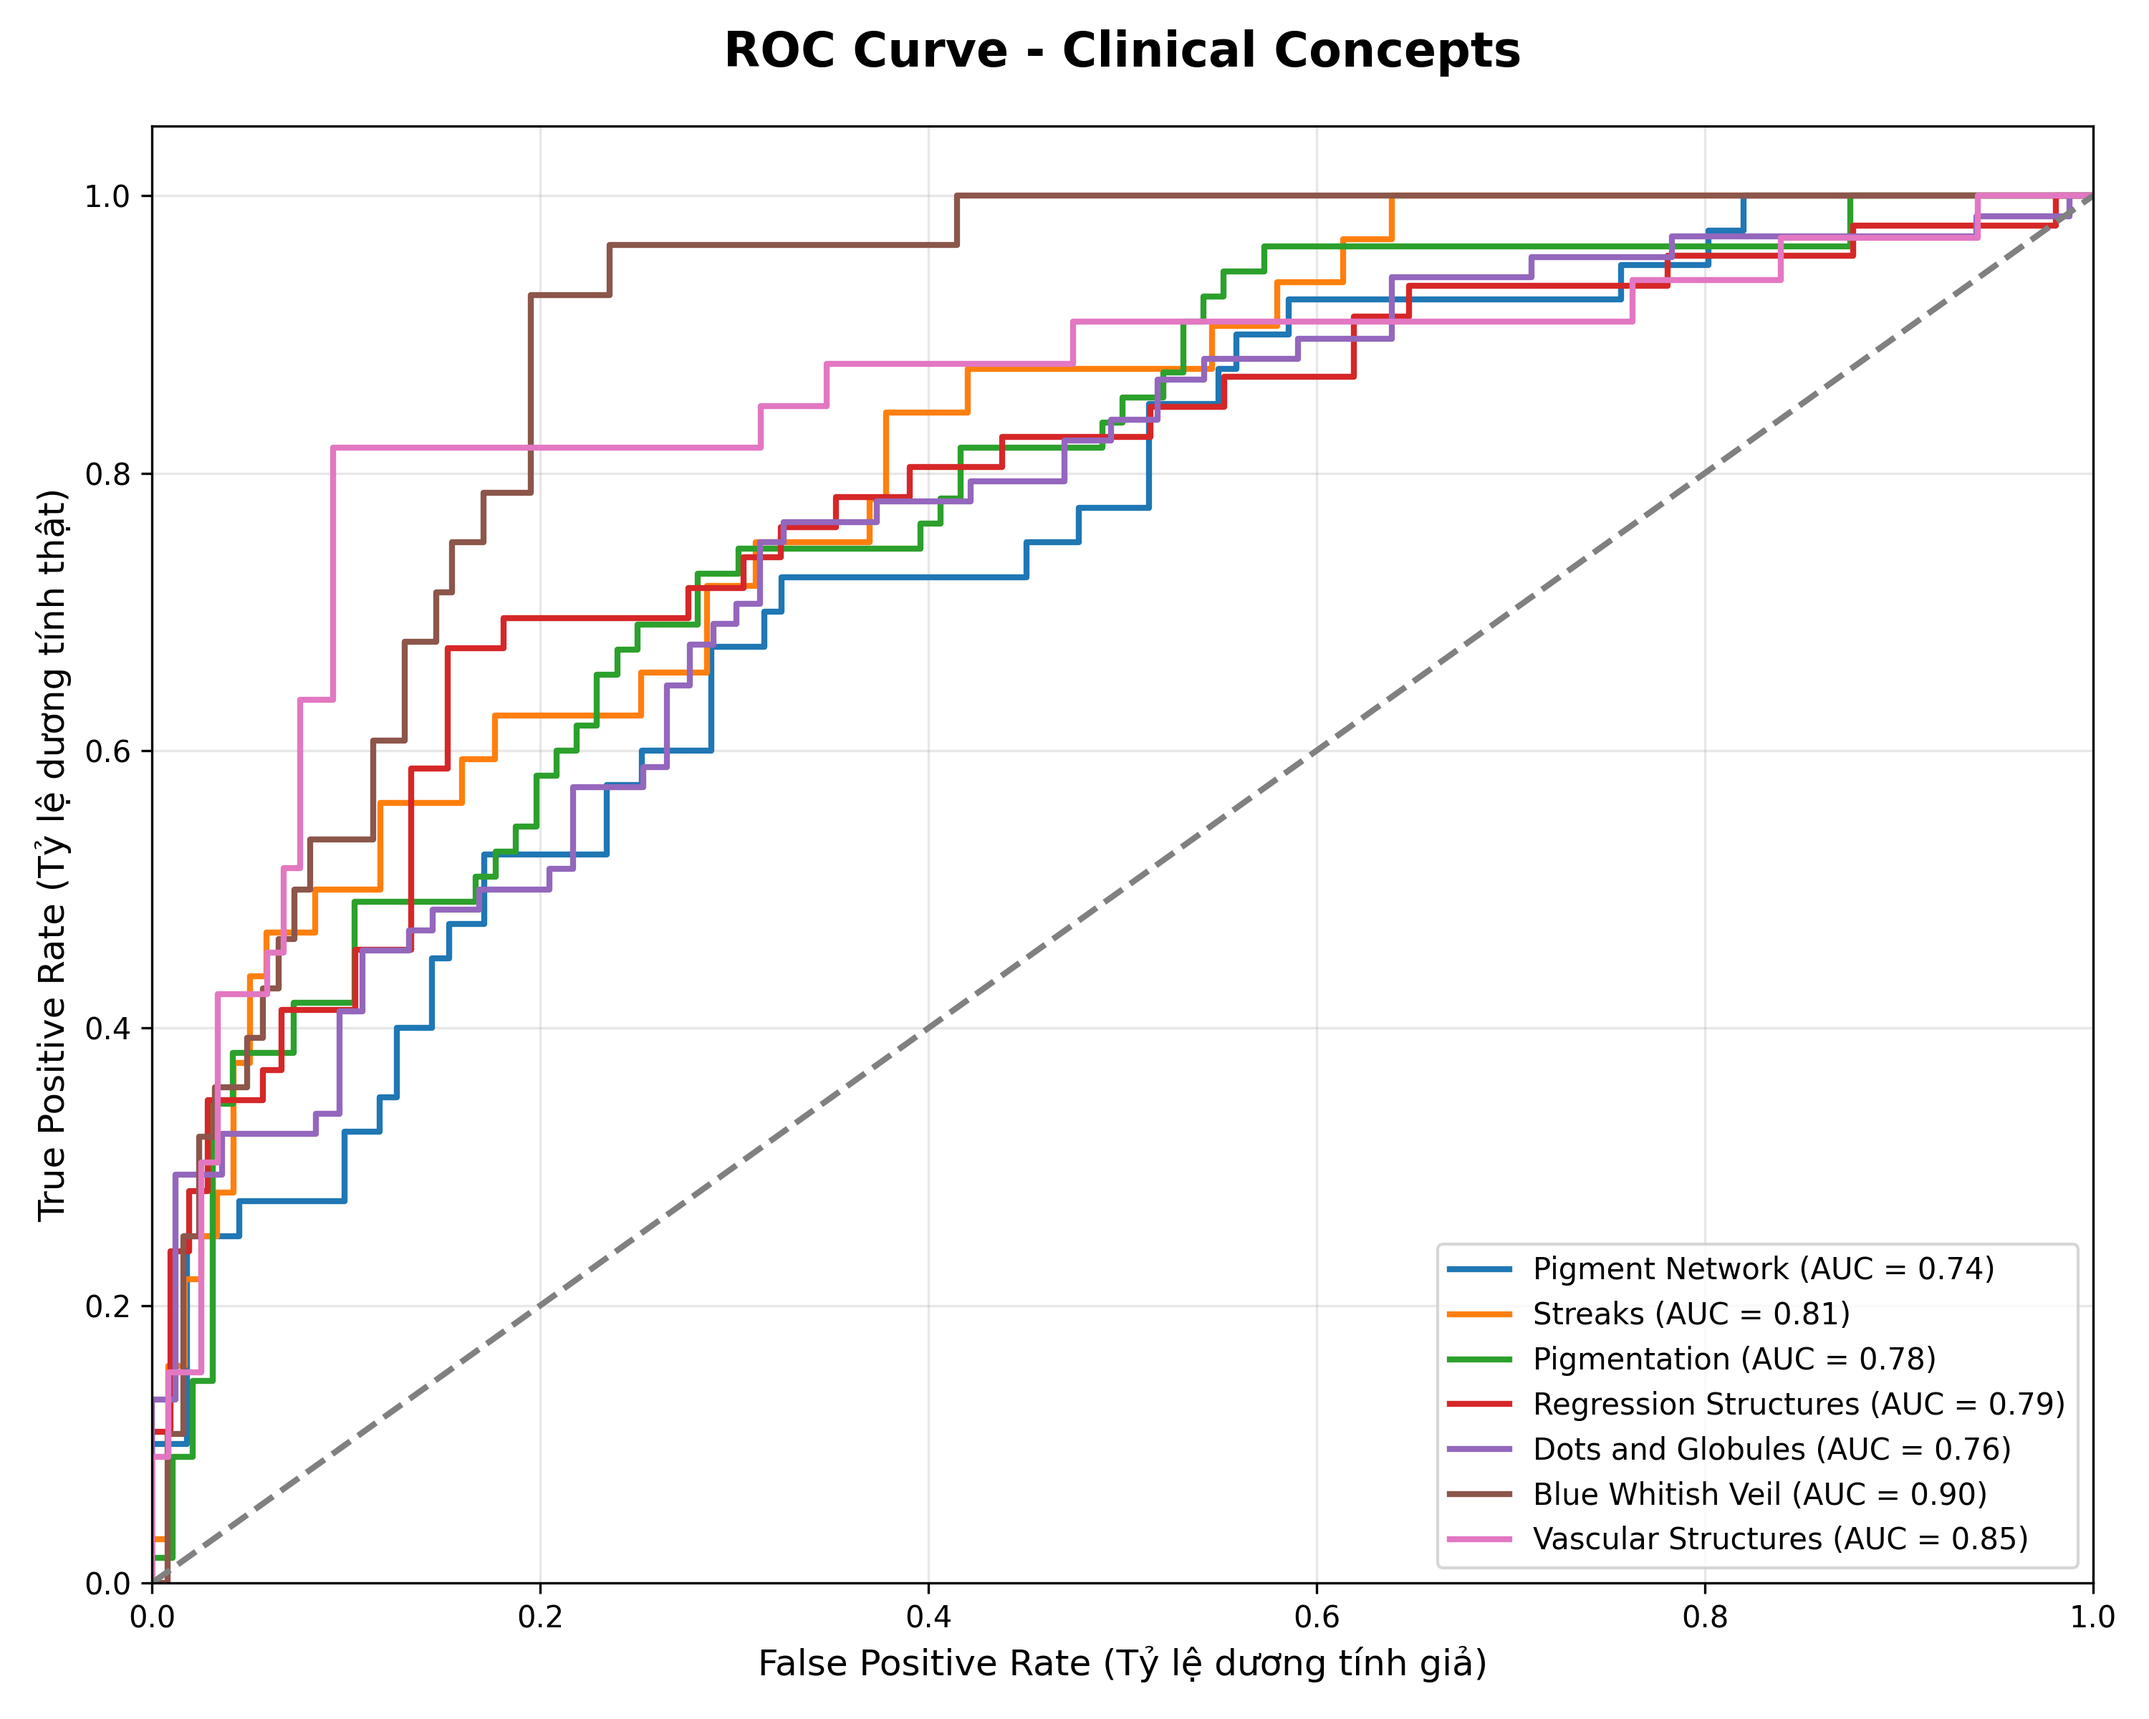
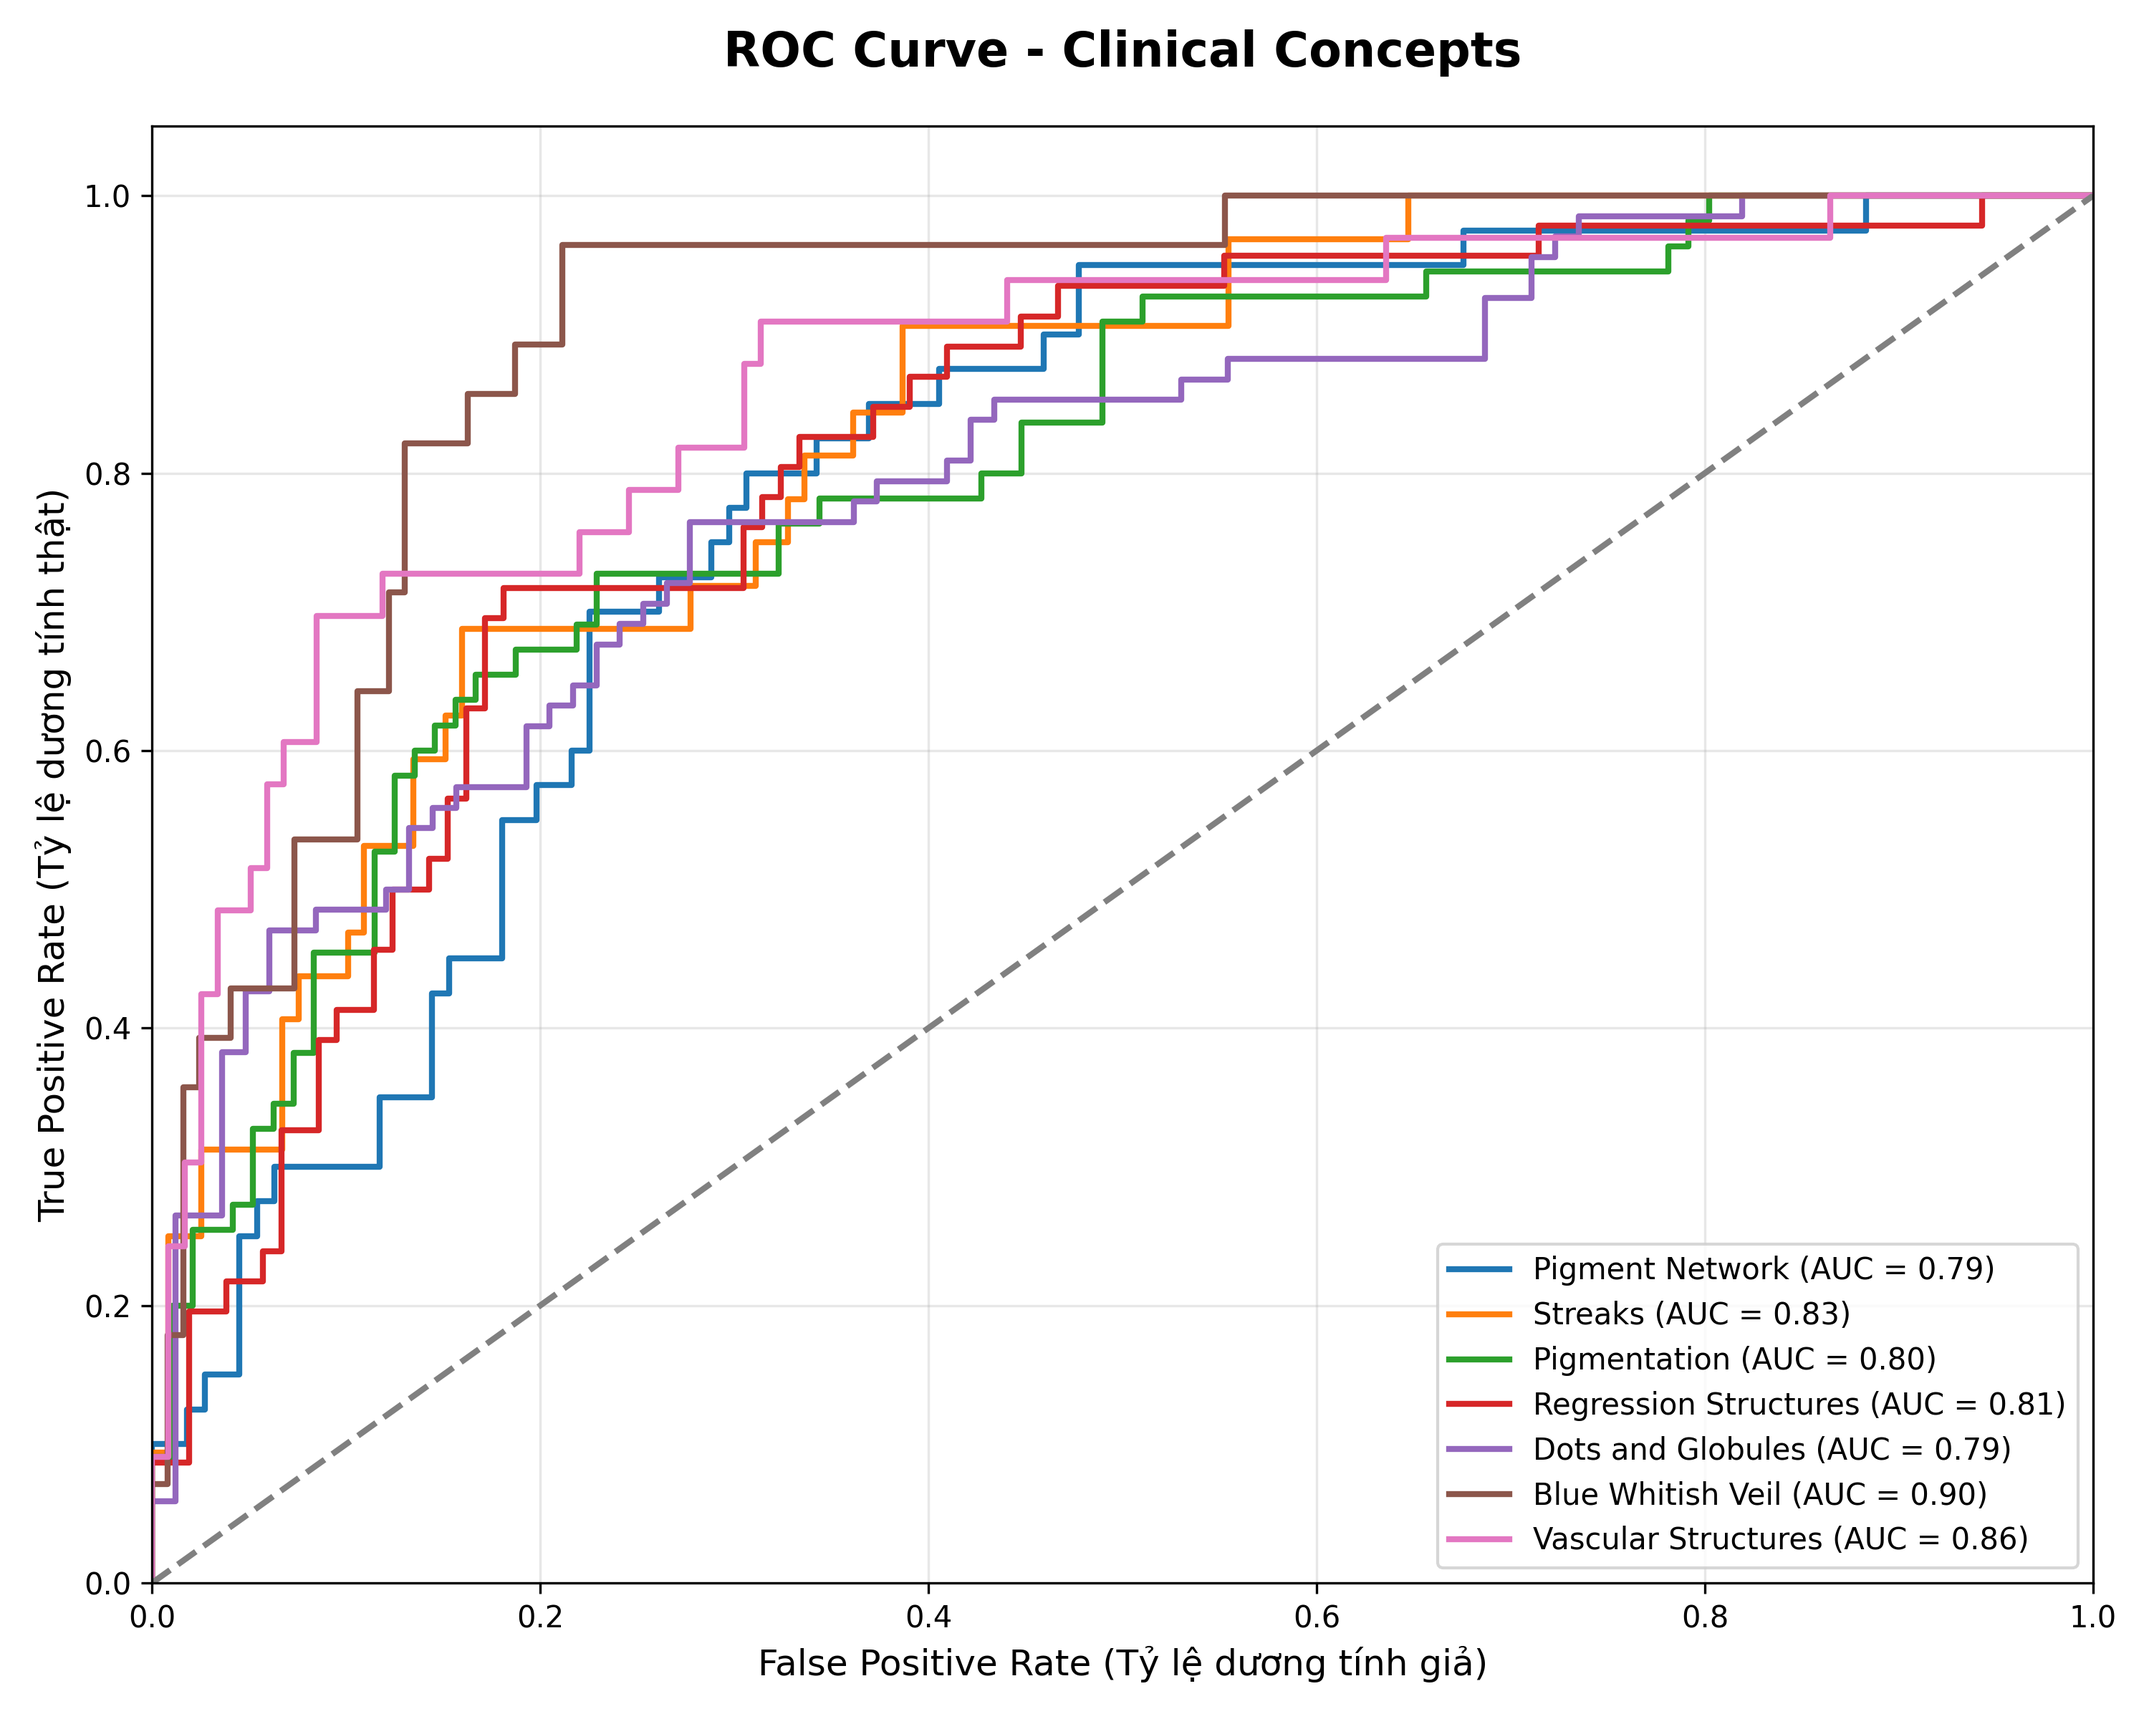
baseline meta_only

Changed region(s): [[0.062, 0.0938, 0.961, 0.9062], [0.93, 0.8125, 0.961, 0.8438], [0.868, 0.7812, 0.899, 0.8125]]

diff --git a/src/models/models.py b/src/models/models.py
@@ -10,26 +10,33 @@ class MultimodalDermModel(nn.Module):
         self.bottleneck_type = bottleneck_type
         self.use_metadata = use_metadata
         
-        # 1. KHỞI TẠO BACKBONE
+        # 1. KHỞI TẠO BACKBONE XỬ LÝ ẢNH (Bỏ qua hoàn toàn nếu là meta_only)
         if self.modality in ['clinic_only', 'dual']:
-            resnet_clinic = models.resnet50(pretrained=True)
+            resnet_clinic = models.resnet50(weights=models.ResNet50_Weights.IMAGENET1K_V1)
             self.clinic_backbone = nn.Sequential(*list(resnet_clinic.children())[:-1]) 
             
         if self.modality in ['derm_only', 'dual']:
-            resnet_derm = models.resnet50(pretrained=True)
+            resnet_derm = models.resnet50(weights=models.ResNet50_Weights.IMAGENET1K_V1)
             self.derm_backbone = nn.Sequential(*list(resnet_derm.children())[:-1])
 
         # 2. TÍNH TOÁN KÍCH THƯỚC FEATURE
-        self.feature_dim = 2048 if self.modality in ['clinic_only', 'derm_only'] else 4096
+        if self.modality == 'dual':
+            self.feature_dim = 4096
+        elif self.modality in ['clinic_only', 'derm_only']:
+            self.feature_dim = 2048
+        elif self.modality == 'meta_only':
+            self.feature_dim = 0
+            self.use_metadata = True # Bắt buộc phải bật Metadata nếu không dùng ảnh
+        else:
+            raise ValueError("Modality không hợp lệ. Chọn: dual, clinic_only, derm_only, meta_only")
         
         # ========================================================
-        # [GIẢI QUYẾT TỪ MÔ HÌNH]: META-ENCODER ĐÃ KÍCH HOẠT
+        # KHỞI TẠO META-ENCODER XỬ LÝ NHÂN KHẨU HỌC
         # ========================================================
         if self.use_metadata:
             self.meta_dim = 32 
-            self.feature_dim += self.meta_dim # Nới rộng chiều kích thước để nhét thêm Meta
+            self.feature_dim += self.meta_dim 
             
-            # Khởi tạo Mạng Nơ-ron nhỏ để học từ Vector Metadata 32 chiều
             self.meta_encoder = nn.Sequential(
                 nn.Linear(32, 64),
                 nn.BatchNorm1d(64),
@@ -38,19 +45,22 @@ class MultimodalDermModel(nn.Module):
                 nn.Linear(64, self.meta_dim)
             )
 
-        # 3. KHỞI TẠO BỘ DỰ ĐOÁN KHÁI NIỆM 
-        if self.bottleneck_type in ['pure', 'hybrid', 'multitask']: 
+        # 3. KHỞI TẠO BỘ DỰ ĐOÁN KHÁI NIỆM (Bỏ qua nếu là meta_only)
+        if self.bottleneck_type in ['pure', 'hybrid', 'multitask'] and self.modality != 'meta_only': 
             self.concept_classifier = nn.Linear(self.feature_dim, num_concepts)
 
         # 4. KHỞI TẠO BỘ DỰ ĐOÁN BỆNH 
-        if self.bottleneck_type in ['none', 'multitask']: 
-            disease_in_features = self.feature_dim
-        elif self.bottleneck_type == 'pure':
-            disease_in_features = num_concepts
-        elif self.bottleneck_type == 'hybrid':
-            disease_in_features = self.feature_dim + num_concepts
+        if self.modality == 'meta_only':
+            disease_in_features = self.feature_dim # Kích thước chính là 32 chiều của MetaEncoder
         else:
-            raise ValueError("bottleneck_type không hợp lệ")
+            if self.bottleneck_type in ['none', 'multitask']: 
+                disease_in_features = self.feature_dim
+            elif self.bottleneck_type == 'pure':
+                disease_in_features = num_concepts
+            elif self.bottleneck_type == 'hybrid':
+                disease_in_features = self.feature_dim + num_concepts
+            else:
+                raise ValueError("Bottleneck_type không hợp lệ")
 
         self.disease_classifier = nn.Sequential(
             nn.Linear(disease_in_features, 512),
@@ -63,6 +73,7 @@ class MultimodalDermModel(nn.Module):
     def forward(self, clinic_img, derm_img, meta_features=None):
         features = []
         
+        # 1. Trích xuất đặc trưng ảnh (Nếu có)
         if self.modality in ['clinic_only', 'dual']:
             c_feat = self.clinic_backbone(clinic_img).view(clinic_img.size(0), -1)
             features.append(c_feat)
@@ -71,18 +82,32 @@ class MultimodalDermModel(nn.Module):
             d_feat = self.derm_backbone(derm_img).view(derm_img.size(0), -1)
             features.append(d_feat)
             
-        combined_features = torch.cat(features, dim=1)
+        if features:
+            combined_features = torch.cat(features, dim=1)
+        else:
+            combined_features = None # Xử lý riêng cho meta_only
 
-        # ========================================================
-        # KẾT HỢP DỮ LIỆU NHÂN KHẨU HỌC VÀO ĐẶC TRƯNG ẢNH
-        # ========================================================
+        # 2. Xử lý và Hợp nhất Metadata
         if self.use_metadata and meta_features is not None:
-            # Cho Metadata đi qua bộ mã hóa
             meta_out = self.meta_encoder(meta_features)
-            # Nối (Concatenate) thông tin y tế vào cạnh thông tin hình ảnh
-            combined_features = torch.cat((combined_features, meta_out), dim=1)
+            
+            if combined_features is not None:
+                # Nếu có ảnh thì nối thêm Metadata vào cạnh
+                combined_features = torch.cat((combined_features, meta_out), dim=1)
+            else:
+                # Nếu chạy meta_only thì chỉ dùng duy nhất Metadata
+                combined_features = meta_out
 
-        # 3. Phân luồng Cấu trúc 
+        if combined_features is None:
+             raise ValueError("Không có dữ liệu nào được trích xuất. Hãy kiểm tra lại đầu vào!")
+
+        # 3. Phân luồng Đầu ra
+        # Nếu mô hình chỉ dùng Metadata (Nhắm mắt đoán bệnh)
+        if self.modality == 'meta_only':
+            disease_logits = self.disease_classifier(combined_features)
+            return disease_logits, None # Không có hình ảnh nên không thể đoán Concept
+
+        # Nếu mô hình có dùng hình ảnh
         if self.bottleneck_type == 'none':
             disease_logits = self.disease_classifier(combined_features)
             return disease_logits, None

diff --git a/src/train.py b/src/train.py
@@ -60,7 +60,7 @@ def train_model(model, train_loader, val_loader, disease_weights=None, concept_p
             
             optimizer.zero_grad()
             
-            # [SỬA LỖI]: Truyền meta_features vào Model lúc Train
+            # Truyền meta_features vào Model lúc Train
             disease_out, concept_out = model(clinic_img, derm_img, meta_features=meta_features)
             
             loss, l_dis, l_con = compute_multitask_loss(
@@ -105,7 +105,7 @@ def train_model(model, train_loader, val_loader, disease_weights=None, concept_p
         if avg_val_loss < best_val_loss:
             best_val_loss = avg_val_loss
             
-            save_path = Config.get_checkpoint_path(experiment_name="best_model_P2")
+            save_path = Config.get_checkpoint_path(experiment_name="baseline_meta_only")
             
             torch.save(model.state_dict(), save_path)
             print(f"--> Đã lưu mô hình tốt nhất tại: {save_path}")

diff --git a/src/visualize.py b/src/visualize.py
@@ -54,7 +54,7 @@ def plot_roc_curve(y_true, y_probs, concept_names, save_path="concept_roc_curve.
 
 def main():
     # 1. TÁCH TÊN MÔ HÌNH ĐỂ LÀM TIỀN TỐ CHO TÊN ẢNH
-    model_name = "best_model_P2"
+    model_name = "baseline_meta_only"
     
     # Tự động lấy đường dẫn lưu trọng số chuẩn xác qua Config
     model_path = Config.get_checkpoint_path(experiment_name=model_name)
@@ -84,8 +84,8 @@ def main():
     model = MultimodalDermModel(
         num_classes=num_disease_classes, 
         num_concepts=7, 
-        modality='dual',    
-        bottleneck_type='multitask', 
+        modality='meta_only',    
+        bottleneck_type='none', 
         use_metadata=True
     )
     

diff --git a/src/evaluate.py b/src/evaluate.py
@@ -75,7 +75,7 @@ def evaluate_model(model, test_loader, device, disease_names):
 
 def main():
     # Lấy đường dẫn lưu trọng số chuẩn xác qua Config
-    model_name = "best_model_P2" 
+    model_name = "baseline_meta_only" 
     model_path = Config.get_checkpoint_path(experiment_name=model_name)
         
     VAL_CSV = Config.VAL_CSV
@@ -102,8 +102,8 @@ def main():
     model = MultimodalDermModel(
         num_classes=num_disease_classes, 
         num_concepts=7, 
-        modality='dual',
-        bottleneck_type='multitask',
+        modality='meta_only',
+        bottleneck_type='none',
         use_metadata=True
     )
     

diff --git a/src/main.py b/src/main.py
@@ -53,8 +53,8 @@ def main():
     model = MultimodalDermModel(
         num_classes=num_disease_classes, 
         num_concepts=7, 
-        modality='dual',     
-        bottleneck_type='multitask',  
+        modality='meta_only',     
+        bottleneck_type='none',  
         use_metadata=True
     )
     
